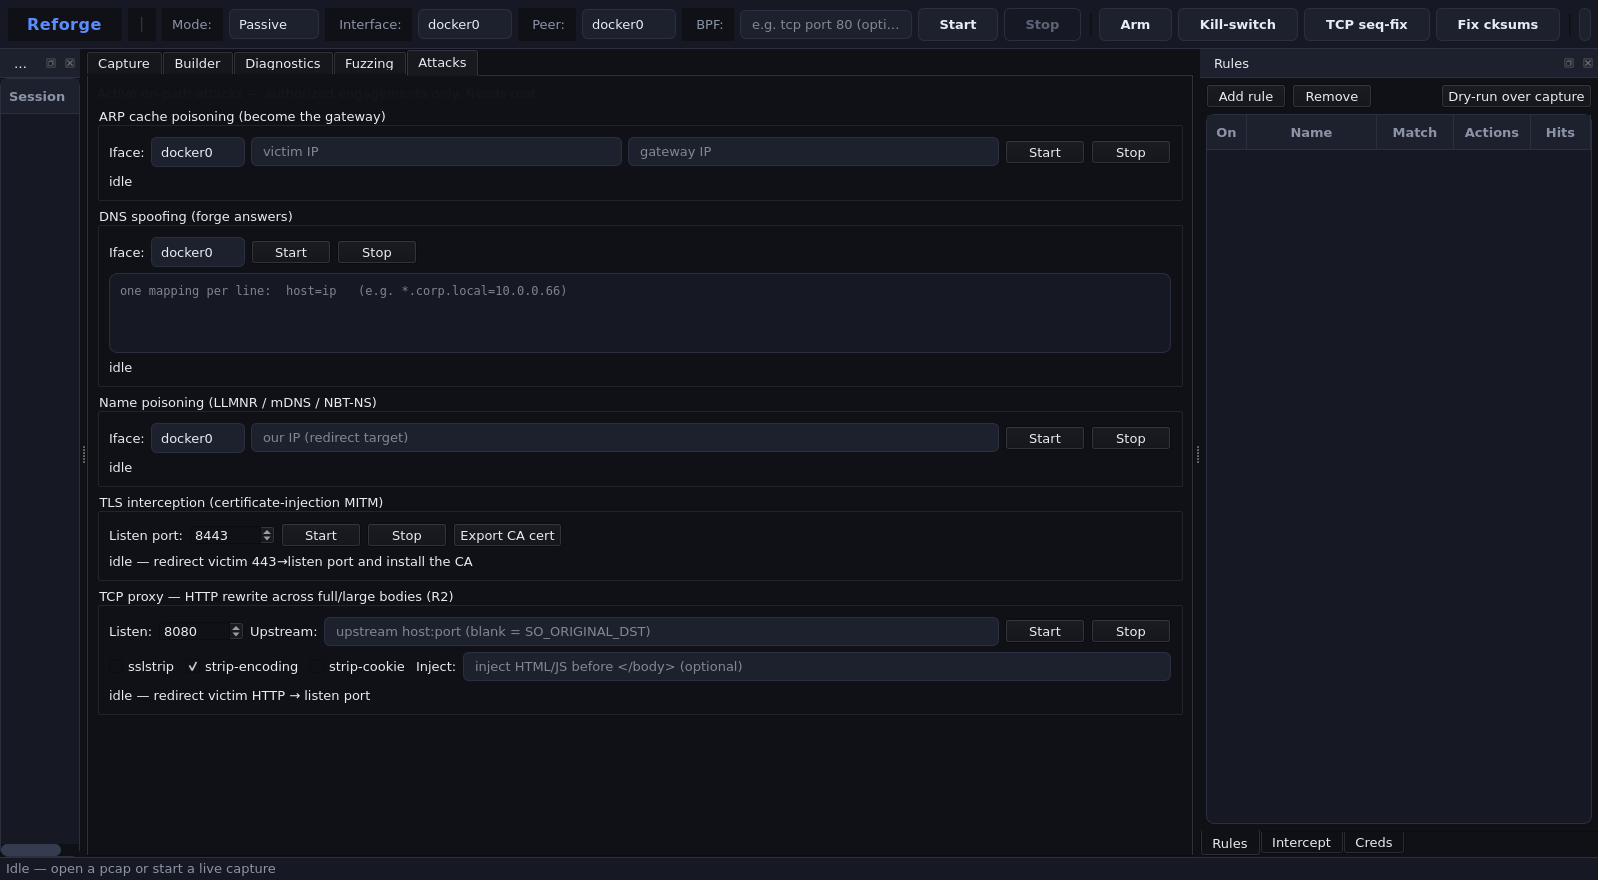
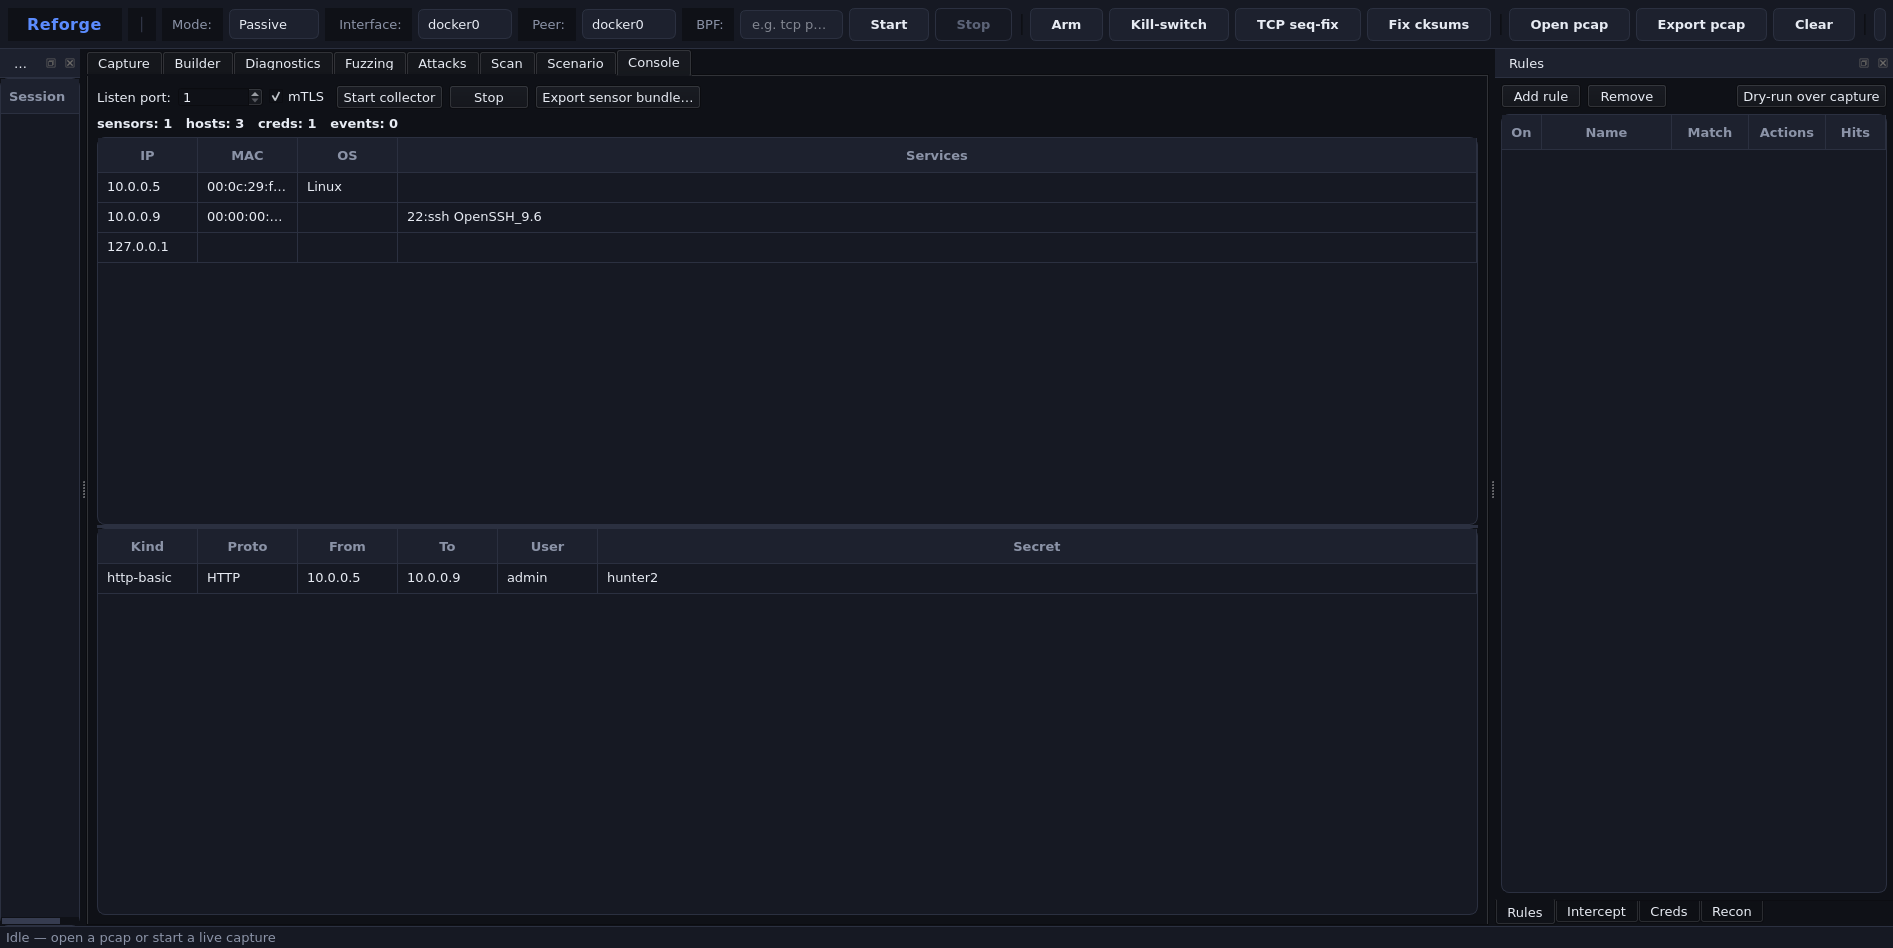
GUI: scenario runner, distributed console, vault + mTLS surfaces
- gui/scenario_panel.py (Scenario tab): load a .json/.yaml scenario, dry-run or
  live run (threaded), view the Markdown report, and save it — optionally
  encrypted at rest with a passphrase (vault).
- gui/console_panel.py (Console tab): run a collector (mTLS on by default),
  watch merged hosts + credentials from sensors live, and "Export sensor bundle"
  (CA + collector/sensor certs) to deploy authenticated sensors. Warns loudly if
  started plaintext.
- main_window: Scenario + Console central tabs; a "Vault" toolbar action to
  encrypt/decrypt any artifact; console stopped on close.

Operators can now drive scenarios, the distributed console, artifact encryption,
and mTLS setup entirely from the GUI (no CLI needed). Headless-verified:
mTLS collector + authenticated sensor -> merged report (3 hosts, 1 cred);
scenario dry-run renders a report. 202 tests pass.

Claude-Session: https://claude.ai/code/session_01XNEyQu2Qm99XhTJ5L1p4qN

diff --git a/reforge/gui/console_panel.py b/reforge/gui/console_panel.py
@@ -1,0 +1,138 @@
+"""Distributed console — run a collector, watch merged sensor reports live."""
+
+from __future__ import annotations
+
+from PySide6.QtCore import QTimer
+from PySide6.QtWidgets import (
+    QCheckBox,
+    QFileDialog,
+    QHBoxLayout,
+    QHeaderView,
+    QLabel,
+    QPushButton,
+    QSpinBox,
+    QSplitter,
+    QTableWidget,
+    QTableWidgetItem,
+    QVBoxLayout,
+    QWidget,
+)
+from PySide6.QtCore import Qt
+
+HOST_COLS = ["IP", "MAC", "OS", "Services"]
+CRED_COLS = ["Kind", "Proto", "From", "To", "User", "Secret"]
+
+
+class ConsolePanel(QWidget):
+    def __init__(self, parent=None):
+        super().__init__(parent)
+        self._collector = None
+        self._server = None
+        self._mtls = None            # (server_ctx, client_ctx, ca)
+
+        root = QVBoxLayout(self)
+        bar = QHBoxLayout()
+        self.port = QSpinBox(); self.port.setRange(1, 65535); self.port.setValue(9900)
+        self.mtls = QCheckBox("mTLS"); self.mtls.setChecked(True)
+        b_start = QPushButton("Start collector"); b_start.clicked.connect(self.start)
+        b_stop = QPushButton("Stop"); b_stop.clicked.connect(self.stop)
+        b_bundle = QPushButton("Export sensor bundle…"); b_bundle.clicked.connect(self.export_bundle)
+        for w in (QLabel("Listen port:"), self.port, self.mtls, b_start, b_stop, b_bundle):
+            bar.addWidget(w)
+        bar.addStretch(1)
+        root.addLayout(bar)
+
+        self.summary = QLabel("Collector idle.")
+        self.summary.setStyleSheet("font-weight: 700;")
+        root.addWidget(self.summary)
+
+        split = QSplitter(Qt.Vertical)
+        self.hosts = QTableWidget(0, len(HOST_COLS))
+        self.hosts.setHorizontalHeaderLabels(HOST_COLS)
+        self.hosts.horizontalHeader().setSectionResizeMode(3, QHeaderView.Stretch)
+        self.hosts.verticalHeader().setVisible(False)
+        split.addWidget(self.hosts)
+        self.creds = QTableWidget(0, len(CRED_COLS))
+        self.creds.setHorizontalHeaderLabels(CRED_COLS)
+        self.creds.horizontalHeader().setSectionResizeMode(5, QHeaderView.Stretch)
+        self.creds.verticalHeader().setVisible(False)
+        split.addWidget(self.creds)
+        root.addWidget(split, 1)
+
+        self._poll = QTimer(self); self._poll.setInterval(1000)
+        self._poll.timeout.connect(self.refresh)
+
+    def start(self):
+        from reforge.distributed.collector import Collector
+        from reforge.distributed.network import CollectorServer
+
+        self.stop()
+        server_ctx = None
+        if self.mtls.isChecked():
+            from reforge.distributed.tls import dev_mtls
+
+            self._mtls = dev_mtls()
+            server_ctx = self._mtls[0]
+        self._collector = Collector()
+        try:
+            self._server = CollectorServer(self._collector, bind=("0.0.0.0", self.port.value()),
+                                           ssl_context=server_ctx)
+            port = self._server.start()
+        except Exception as exc:
+            self.summary.setText(f"error: {exc}"); return
+        self._poll.start()
+        mode = "mTLS" if server_ctx else "PLAINTEXT (bind loopback or tunnel!)"
+        self.summary.setText(f"Collector on :{port} [{mode}] — waiting for sensors")
+
+    def stop(self):
+        self._poll.stop()
+        if self._server:
+            try:
+                self._server.stop()
+            except Exception:
+                pass
+            self._server = None
+        if self._collector is not None:
+            self.summary.setText("Collector stopped.")
+
+    def refresh(self):
+        if self._collector is None:
+            return
+        rep = self._collector.report()
+        self.summary.setText(
+            f"sensors: {len(self._collector.sensors)}   hosts: {len(rep.hosts)}   "
+            f"creds: {len(rep.credentials)}   events: {len(rep.events)}")
+        self.hosts.setRowCount(0)
+        for h in rep.hosts:
+            r = self.hosts.rowCount(); self.hosts.insertRow(r)
+            svcs = ", ".join(f"{p}:{v}" for p, v in sorted(h.get("services", {}).items()))
+            for c, v in enumerate((h.get("ip"), h.get("mac"), h.get("os_family"), svcs)):
+                self.hosts.setItem(r, c, QTableWidgetItem(str(v)))
+        self.creds.setRowCount(0)
+        for cr in rep.credentials:
+            r = self.creds.rowCount(); self.creds.insertRow(r)
+            vals = (cr.get("kind"), cr.get("proto"), cr.get("src"), cr.get("dst"),
+                    cr.get("username"), cr.get("secret"))
+            for c, v in enumerate(vals):
+                self.creds.setItem(r, c, QTableWidgetItem(str(v)))
+
+    def export_bundle(self):
+        directory = QFileDialog.getExistingDirectory(self, "Export sensor mTLS bundle to…")
+        if not directory:
+            return
+        from pathlib import Path
+
+        from reforge.attacks.tls_ca import DynamicCA
+
+        if self._mtls is None:
+            from reforge.distributed.tls import dev_mtls
+            self._mtls = dev_mtls()
+        _sctx, _cctx, ca = self._mtls
+        d = Path(directory)
+        (d / "ca.pem").write_bytes(ca.ca_pem())
+        for name in ("collector", "sensor"):
+            cert, key = ca.cert_for(name)
+            (d / f"{name}.crt").write_bytes(cert)
+            (d / f"{name}.key").write_bytes(key)
+        self.summary.setText(f"mTLS bundle exported to {directory} — deploy ca.pem + sensor.* "
+                             f"to sensors, keep collector.* on the console")

diff --git a/reforge/gui/scenario_panel.py b/reforge/gui/scenario_panel.py
@@ -1,0 +1,120 @@
+"""Scenario runner tab — load a scripted engagement, run it, show/save the report."""
+
+from __future__ import annotations
+
+import threading
+
+from PySide6.QtCore import QTimer
+from PySide6.QtGui import QFont
+from PySide6.QtWidgets import (
+    QCheckBox,
+    QFileDialog,
+    QHBoxLayout,
+    QLabel,
+    QLineEdit,
+    QMessageBox,
+    QPlainTextEdit,
+    QPushButton,
+    QVBoxLayout,
+    QWidget,
+)
+
+
+class ScenarioPanel(QWidget):
+    def __init__(self, parent=None):
+        super().__init__(parent)
+        self._spec = None
+        self._report = None
+        self._worker = None
+
+        root = QVBoxLayout(self)
+        bar = QHBoxLayout()
+        load = QPushButton("Load scenario…"); load.clicked.connect(self._load)
+        self.file_lbl = QLabel("no scenario loaded")
+        self.dry = QCheckBox("dry-run"); self.dry.setChecked(True)
+        self.run_btn = QPushButton("Run"); self.run_btn.clicked.connect(self._run)
+        bar.addWidget(load); bar.addWidget(self.file_lbl, 1)
+        bar.addWidget(self.dry); bar.addWidget(self.run_btn)
+        root.addLayout(bar)
+
+        mono = QFont("JetBrains Mono"); mono.setStyleHint(QFont.Monospace)
+        self.view = QPlainTextEdit(); self.view.setReadOnly(True); self.view.setFont(mono)
+        root.addWidget(self.view, 1)
+
+        save = QHBoxLayout()
+        self.passphrase = QLineEdit(); self.passphrase.setEchoMode(QLineEdit.Password)
+        self.passphrase.setPlaceholderText("passphrase to encrypt the saved report (optional)")
+        btn_json = QPushButton("Save report…"); btn_json.clicked.connect(self._save)
+        save.addWidget(QLabel("Encrypt:")); save.addWidget(self.passphrase)
+        save.addStretch(1); save.addWidget(btn_json)
+        root.addLayout(save)
+
+        self.status = QLabel("Load a scenario (.json / .yaml) to begin.")
+        root.addWidget(self.status)
+
+        self._poll = QTimer(self); self._poll.setInterval(300)
+        self._poll.timeout.connect(self._check)
+
+    def _load(self):
+        path, _ = QFileDialog.getOpenFileName(self, "Load scenario", "",
+                                              "Scenario (*.json *.yaml *.yml)")
+        if not path:
+            return
+        from reforge.scenario.runner import load_scenario
+
+        try:
+            self._spec = load_scenario(path)
+        except Exception as exc:
+            QMessageBox.critical(self, "Scenario error", str(exc)); return
+        self.file_lbl.setText(f"{self._spec.get('name', path)}  ({len(self._spec.get('steps', []))} steps)")
+        self.status.setText("Loaded. Review dry-run before a live run.")
+
+    def _run(self):
+        if self._spec is None:
+            self.status.setText("Load a scenario first."); return
+        if self._worker and self._worker.is_alive():
+            return
+        from reforge.scenario.runner import ScenarioRunner
+
+        dry = self.dry.isChecked()
+        spec = self._spec
+
+        def work():
+            self._report = ScenarioRunner(dry_run=dry).run(spec)
+
+        self._report = None
+        self._worker = threading.Thread(target=work, daemon=True)
+        self._worker.start()
+        self._poll.start()
+        self.run_btn.setEnabled(False)
+        self.status.setText(f"Running ({'dry-run' if dry else 'LIVE'})…")
+
+    def _check(self):
+        if self._worker and self._worker.is_alive():
+            return
+        self._poll.stop()
+        self.run_btn.setEnabled(True)
+        if self._report is not None:
+            self.view.setPlainText(self._report.to_markdown())
+            s = self._report
+            self.status.setText(f"Done — {len(s.hosts)} host(s), {len(s.credentials)} cred(s).")
+
+    def _save(self):
+        if self._report is None:
+            self.status.setText("Run a scenario first."); return
+        path, _ = QFileDialog.getSaveFileName(self, "Save report", "engagement-report.md",
+                                              "Markdown/JSON (*.md *.json)")
+        if not path:
+            return
+        text = self._report.to_json() if path.endswith(".json") else self._report.to_markdown()
+        pw = self.passphrase.text().strip()
+        from pathlib import Path
+
+        if pw:
+            from reforge.core.vault import encrypt_bytes
+
+            Path(path).write_bytes(encrypt_bytes(text.encode(), pw))
+            self.status.setText(f"Encrypted report saved -> {path}")
+        else:
+            Path(path).write_text(text)
+            self.status.setText(f"Report saved -> {path}")

diff --git a/reforge/gui/main_window.py b/reforge/gui/main_window.py
@@ -41,6 +41,7 @@ from reforge.core.packet import Packet
 from reforge.gui import theme
 from reforge.gui.attacks_panel import AttacksPanel
 from reforge.gui.builder_panel import BuilderPanel
+from reforge.gui.console_panel import ConsolePanel
 from reforge.gui.creds_panel import CredsPanel
 from reforge.gui.diagnostics_panel import DiagnosticsPanel
 from reforge.gui.fuzzing_panel import FuzzingPanel
@@ -48,6 +49,7 @@ from reforge.gui.intercept_panel import InterceptPanel
 from reforge.gui.recon_panel import ReconPanel
 from reforge.gui.rules_panel import RulesPanel
 from reforge.gui.scan_panel import ScanPanel
+from reforge.gui.scenario_panel import ScenarioPanel
 
 from reforge.capture.afpacket import AfPacketBackend
 from reforge.capture.base import Frame
@@ -176,6 +178,11 @@ class MainWindow(QMainWindow):
         act_plugins.triggered.connect(self.load_plugins)
         tb.addAction(act_plugins)
 
+        act_vault = QAction("Vault", self)
+        act_vault.setToolTip("Encrypt/decrypt an engagement artifact at rest")
+        act_vault.triggered.connect(self.vault_tool)
+        tb.addAction(act_vault)
+
         # push the theme toggle to the far right
         spacer = QWidget()
         spacer.setSizePolicy(QSizePolicy.Policy.Expanding, QSizePolicy.Policy.Preferred)
@@ -247,6 +254,10 @@ class MainWindow(QMainWindow):
         self.tabs.addTab(self.attacks_panel, "Attacks")
         self.scan_panel = ScanPanel(get_inventory=lambda: self.recon_panel.inv)
         self.tabs.addTab(self.scan_panel, "Scan")
+        self.scenario_panel = ScenarioPanel()
+        self.tabs.addTab(self.scenario_panel, "Scenario")
+        self.console_panel = ConsolePanel()
+        self.tabs.addTab(self.console_panel, "Console")
         self.setCentralWidget(self.tabs)
 
     def _bridge_ifaces(self) -> list[str]:
@@ -555,6 +566,31 @@ class MainWindow(QMainWindow):
                 if item is not None:
                     item.setBackground(bg)
 
+    def vault_tool(self) -> None:
+        from PySide6.QtWidgets import QInputDialog, QLineEdit
+
+        mode, ok = QInputDialog.getItem(self, "Vault", "Operation:",
+                                        ["encrypt", "decrypt"], 0, False)
+        if not ok:
+            return
+        src, _ = QFileDialog.getOpenFileName(self, f"{mode}: source file")
+        if not src:
+            return
+        dst, _ = QFileDialog.getSaveFileName(self, f"{mode}: output file")
+        if not dst:
+            return
+        pw, ok = QInputDialog.getText(self, "Vault", "Passphrase:", QLineEdit.Password)
+        if not ok or not pw:
+            return
+        from reforge.core.vault import decrypt_file, encrypt_file
+
+        try:
+            fn = encrypt_file if mode == "encrypt" else decrypt_file
+            fn(src, dst, pw)
+            self.statusBar().showMessage(f"{mode}ed {src} -> {dst}")
+        except Exception as exc:
+            QMessageBox.critical(self, "Vault error", str(exc))
+
     def load_plugins(self) -> None:
         directory = QFileDialog.getExistingDirectory(self, "Select plugins directory")
         if not directory:
@@ -619,10 +655,11 @@ class MainWindow(QMainWindow):
 
     def closeEvent(self, event) -> None:  # noqa: N802 (Qt signature)
         self.stop_capture()
-        try:
-            self.attacks_panel.stop_all()
-        except Exception:
-            pass
+        for cleanup in (self.attacks_panel.stop_all, self.console_panel.stop):
+            try:
+                cleanup()
+            except Exception:
+                pass
         super().closeEvent(event)
 
 
